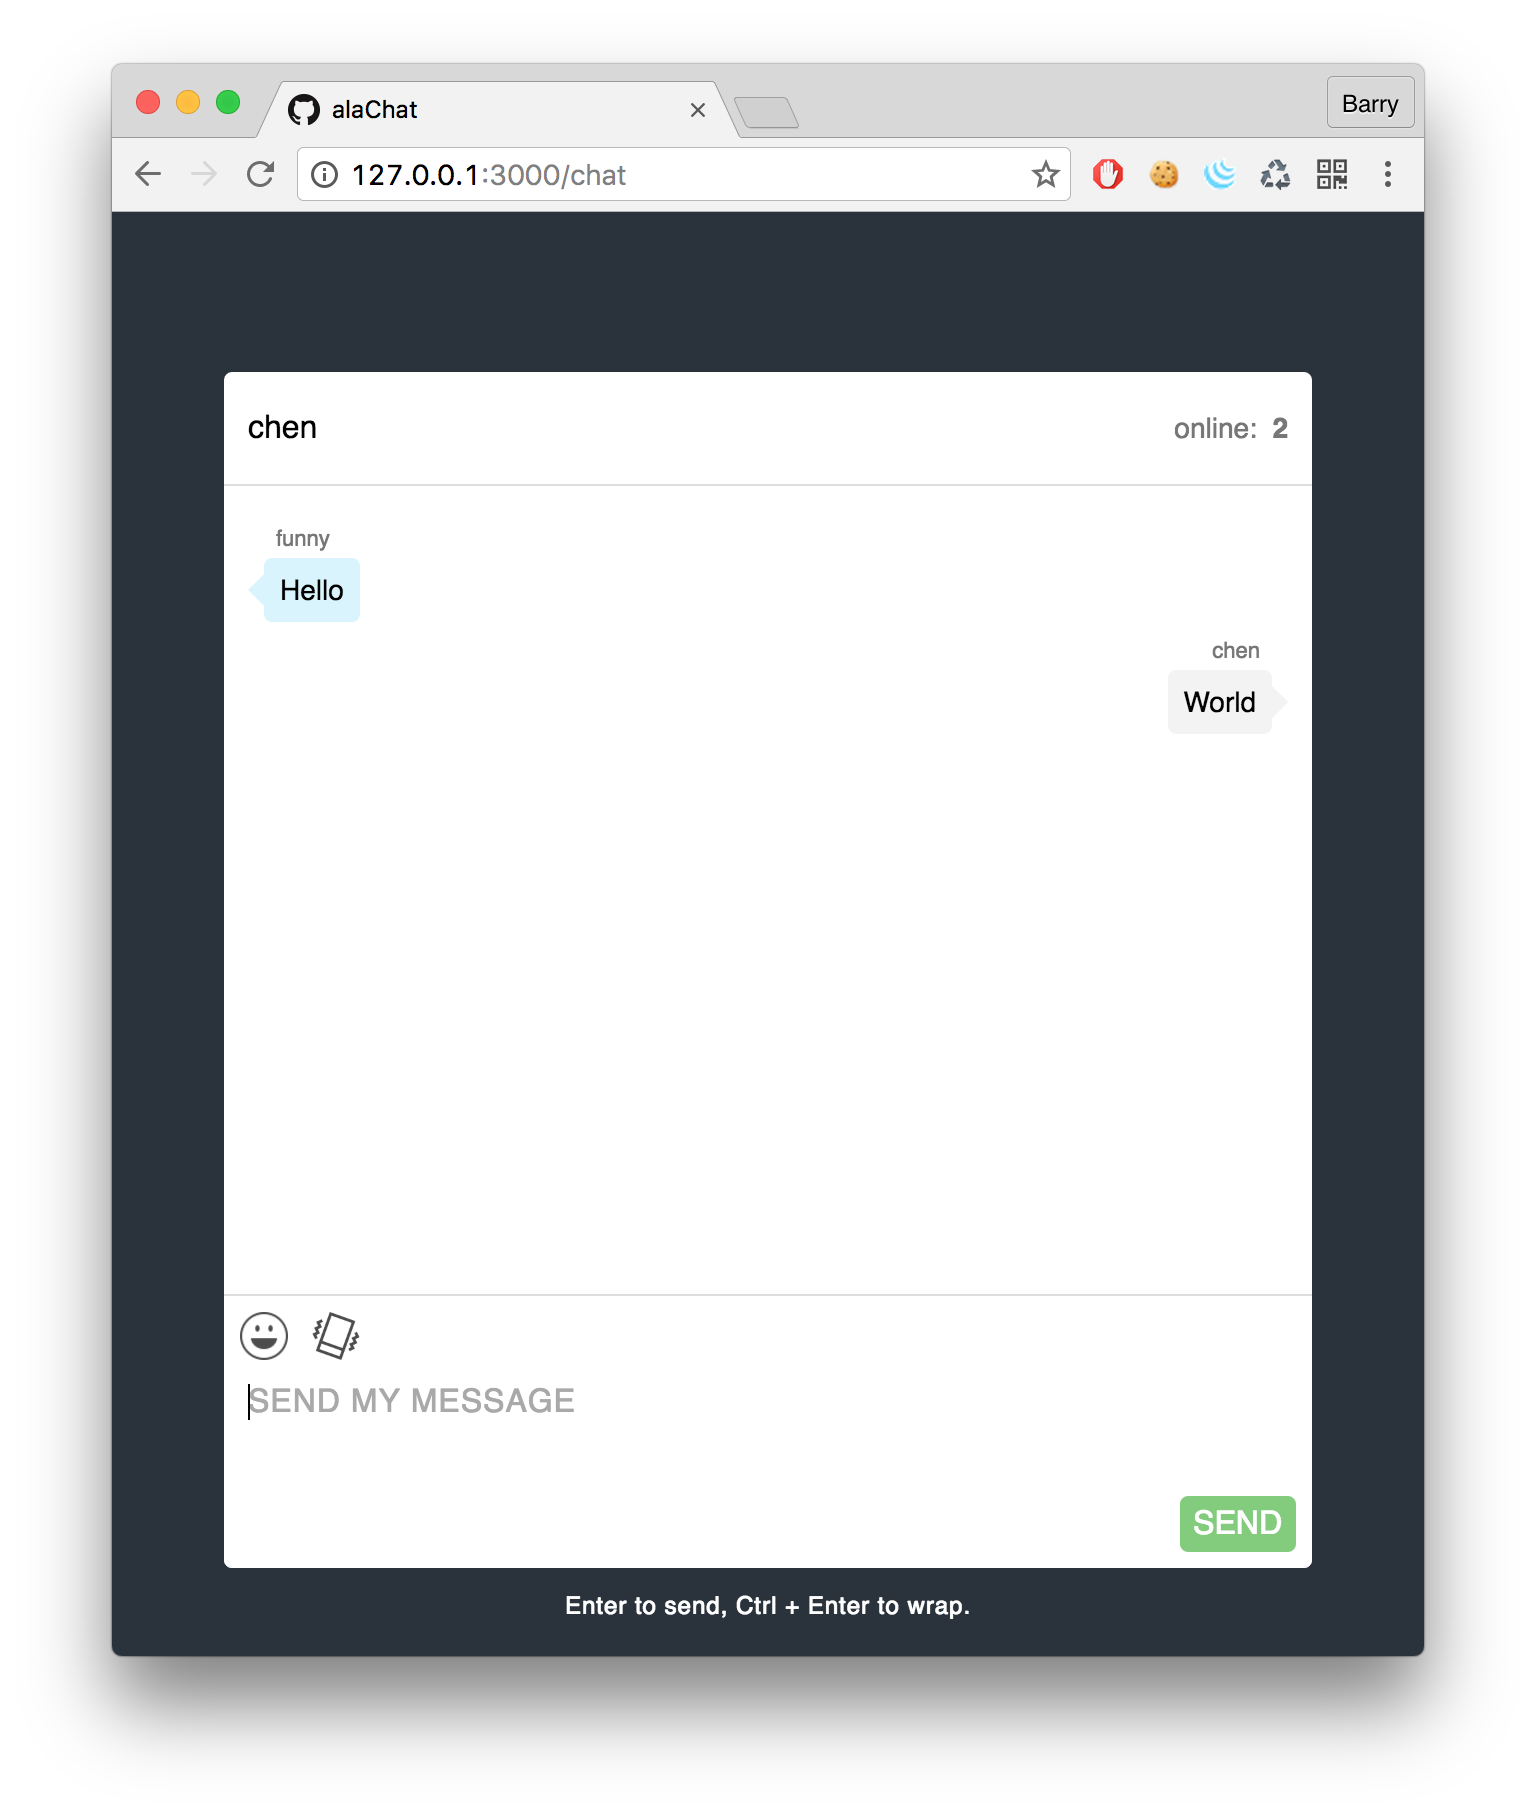
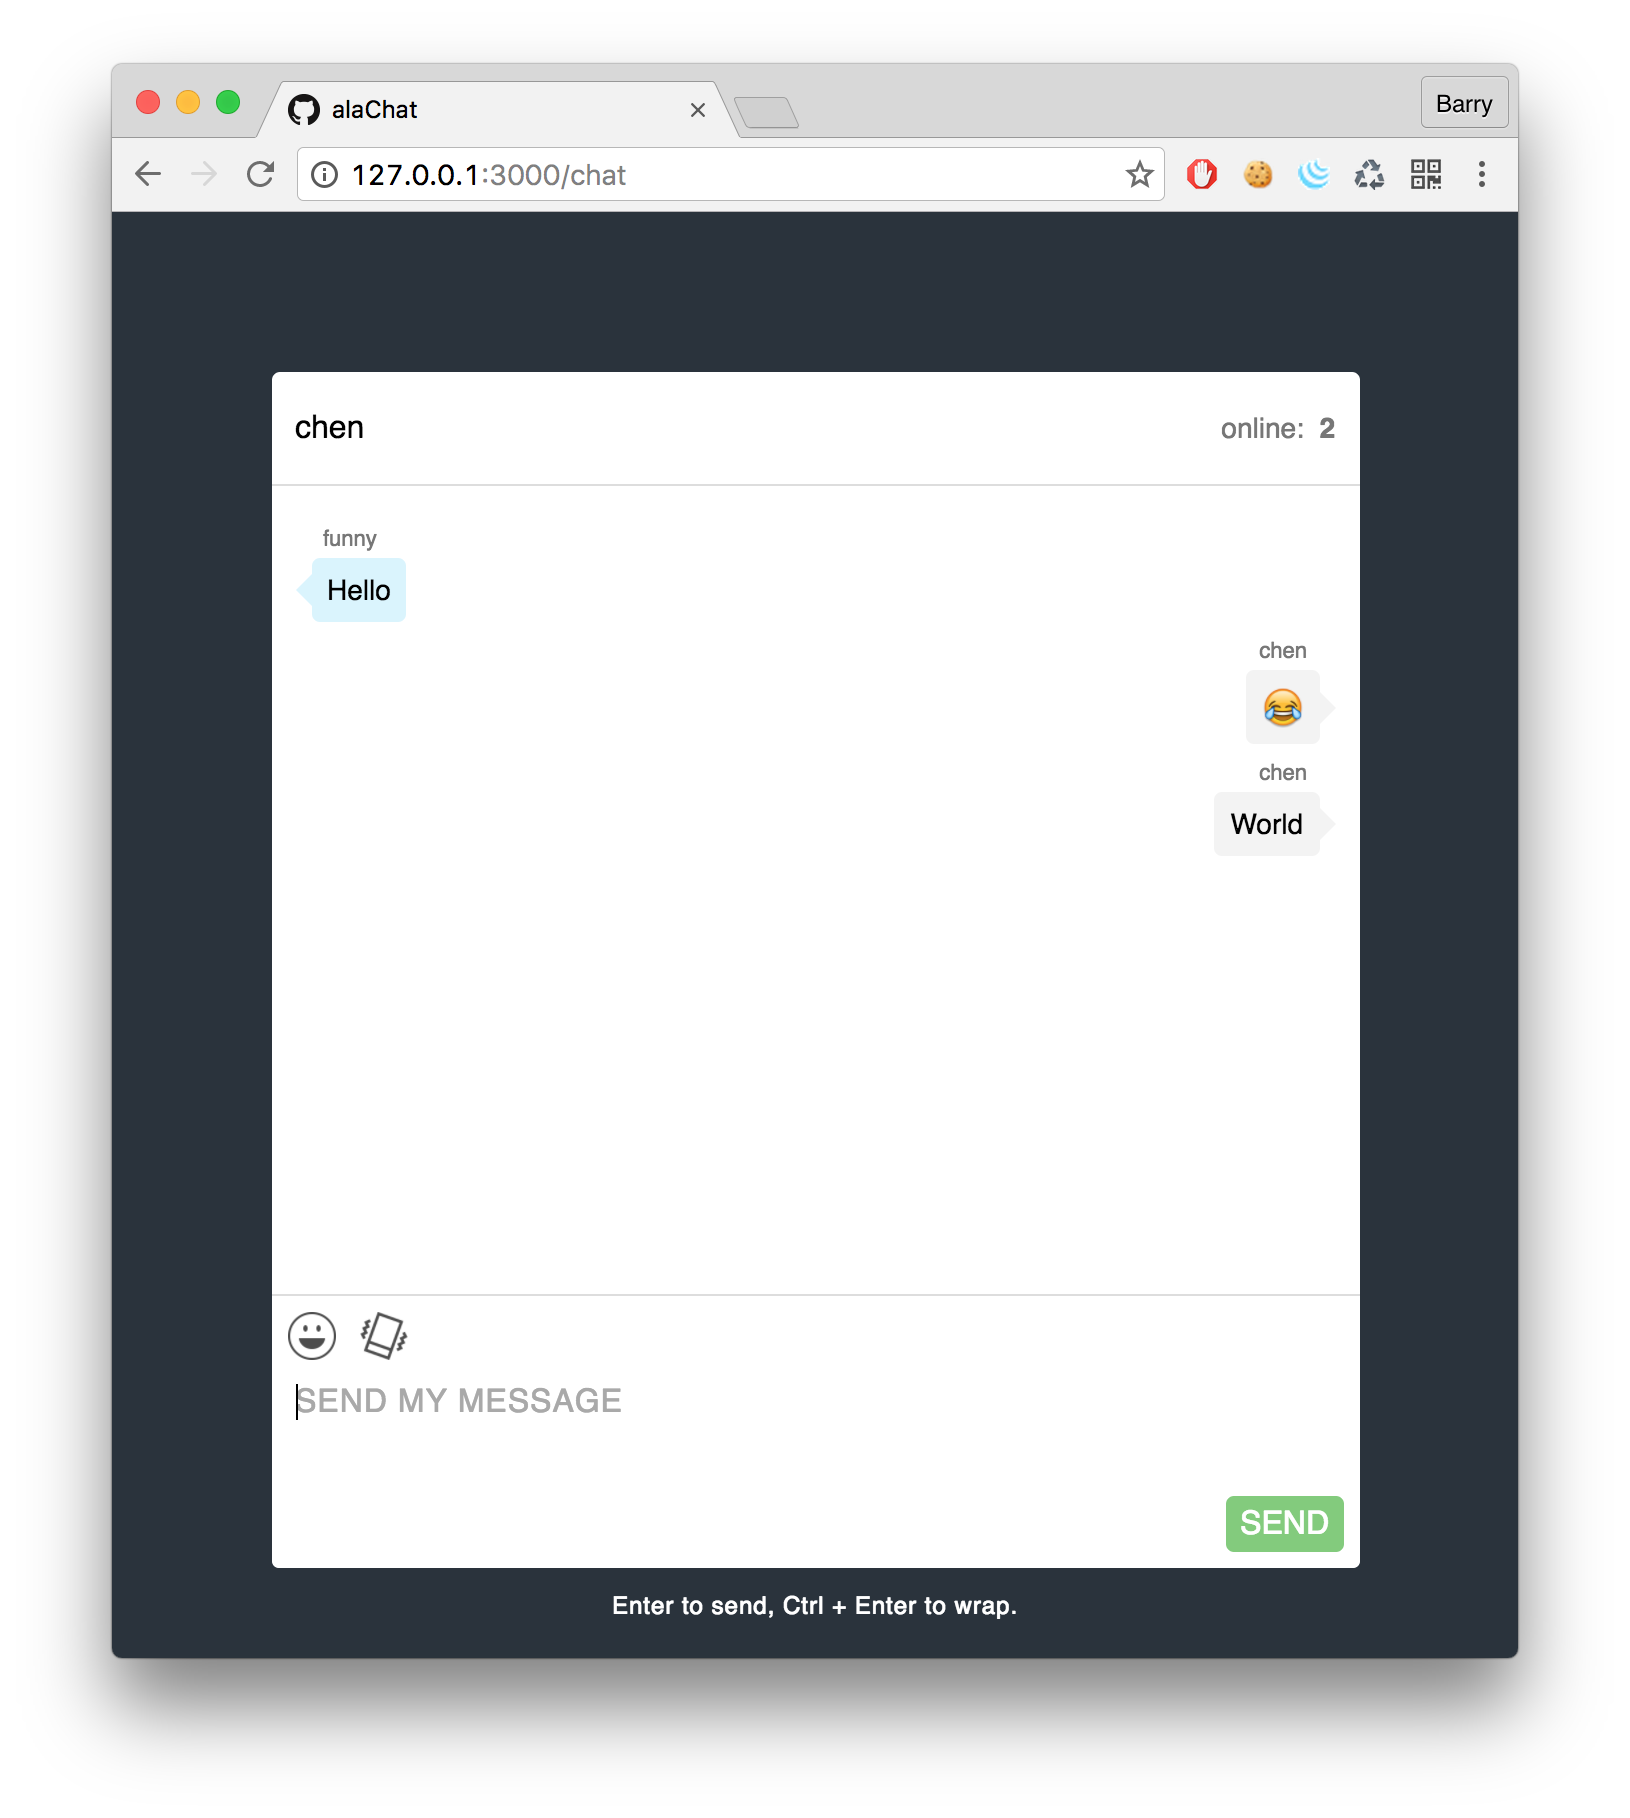
emoji function is OK but not perfect

diff --git a/public/scripts/chat.js b/public/scripts/chat.js
@@ -1,7 +1,7 @@
 $(function() {
 	
 	window.onbeforeunload = function() {
-		return confirm();
+		return 1;
 	}
 	
 	// notification
@@ -29,26 +29,25 @@ $(function() {
 	
 	var socket = io();
 	
-	var u_time;
+	var u_time,
+		record_input_emoji_info = 'blank';
 	
 	var emoji_name = ['em em-angry', 'em em-anguished', 'em em-astonished', 'em em-blush', 'em em-cold_sweat', 'em em-confounded', 'em em-confused', 'em em-cry', 'em em-disappointed', 'em em-disappointed_relieved', 'em em-dizzy_face', 'em em-expressionless', 'em em-fearful', 'em em-flushed', 'em em-frowning', 'em em-grimacing', 'em em-grin', 'em em-grinning', 'em em-heart_eyes', 'em em-hushed', 'em em-innocent', 'em em-joy', 'em em-kissing_heart', 'em em-laughing', 'em em-neutral_face', 'em em-no_mouth', 'em em-open_mouth', 'em em-pensive', 'em em-persevere', 'em em-relaxed', 'em em-satisfied', 'em em-smile', 'em em-sleepy', 'em em-smirk', 'em em-sob', 'em em-stuck_out_tongue_closed_eyes', 'em em-sunglasses', 'em em-sweat_smile', 'em em-tired_face', 'em em-yum'],
+		emoji_input_name = ['angry', 'anguished', 'astonished', 'blush', 'cold_sweat', 'confounded', 'confused', 'cry', 'disappointed', 'disappointed_relieved', 'dizzy_face', 'expressionless', 'fearful', 'flushed', 'frowning', 'grimacing', 'grin', 'grinning', 'heart_eyes', 'hushed', 'innocent', 'joy', 'kissing_heart', 'laughing', 'neutral_face', 'no_mouth', 'open_mouth', 'pensive', 'persevere', 'relaxed', 'satisfied', 'smile', 'sleepy', 'smirk', 'sob', 'stuck_out_tongue_closed_eyes', 'sunglasses', 'sweat_smile', 'tired_face', 'yum'],
 		emoji_len = emoji_name.length;
 	
 	for (var i = 0; i < emoji_len; i++) {
 		var i_tag = $('<i></i>');
 		i_tag.addClass(emoji_name[i]);
+		i_tag.attr('title', emoji_input_name[i]);
 		$emoji_table.append(i_tag);
 	}
 	
-	var emoji_choose = $emoji_table.children('i');
+	var $emoji_choose = $emoji_table.children('i');
 	
-	emoji_choose.on('click', function() {
-		// $input.val($input.val() + '<i class="' + emoji_name[$(this).index()] + '"></i> ');
-		// $r_message.append('<li><i class="' + emoji_name[$(this).index()] + '"></i><dt>' + your_nickname + '</dt></li><br>');
-		socket.emit('chat', {
-			msg: '<li><i class="' + emoji_name[$(this).index()] + '"></i><dt>' + your_nickname + '</dt></li><br>',
-			people: $('.nickname').val() + '_' + u_time
-		});
+	$emoji_choose.on('click', function() {
+		$input.val($input.val() + '[' + emoji_input_name[$(this).index()] + ']');
+		record_input_emoji_info = $input.val();
 		$input.focus();
 	});
 	
@@ -123,7 +122,7 @@ $(function() {
 	socket.on('chat', function(data) {
 		var people = data.people.split('_');
 		if ($('.nickname').val() === people[0] && u_time === +people[1]) { // is you
-			your_message = checkMesage(data.msg, your_nickname);
+			your_message = checkMesage(data.msg, data.riei, your_nickname);
 			var right_height = $r_message.height();
 			$r_message.append(your_message);
 			var right_len = $r_message.children('li').length;
@@ -140,7 +139,7 @@ $(function() {
 					icon: '/img/notify.png'
 				});
 			}
-			other_message = checkMesage(data.msg, people[0]);
+			other_message = checkMesage(data.msg, data.riei, people[0]);
 			var left_height = $l_message.height();
 			$l_message.append(other_message);
 			var left_len = $l_message.children('li').length;
@@ -177,6 +176,7 @@ $(function() {
 		} else {
 			socket.emit('chat', {
 				msg: $input.val(),
+				riei: record_input_emoji_info,
 				people: $('.nickname').val() + '_' + u_time
 			});
 			$input.val('');
@@ -184,18 +184,25 @@ $(function() {
 		}
 	}
 	
-	function checkMesage(msg, nn) {
-		var li = $('<li></li><br>');
-		li.eq(0).text(msg);
+	function checkMesage(msg, riei, nn) {
+		record_input_emoji_info = riei;
+		console.info('record_input_emoji_info: ' + record_input_emoji_info);
+		var li = $('<li></li><br>'),
+			emojis = record_input_emoji_info.match(/\[[a-z|_]+\]/g),
+			len = 0;
+		if (emojis !== null) { // have emoji(s)
+			len = emojis.length;
+			for (var i = 0; i < len; i++) { // record emoji(s)
+				if (msg.indexOf(emojis[i]) !== -1) {
+					msg = msg.replace(emojis[i], '<i class="em em-' + emojis[i].match(/[a-z|_]+/g)[0] + '"></i>');
+				}
+			}
+			li.eq(0).append(msg);
+		} else { // no emoji(s)
+			li.eq(0).text(msg);
+		}
 		li.eq(0).append('<dt>' + nn + '</dt>');
 		return li;
 	}
-	
-	// function emCheck(msg, name) {
-	// 	var emReg = new RegExp('(^|(<i class="em em-))' + '*' + '("></i>)$', 'g'),
-	// 		r = msg.match(emReg);
-	// 	if (r !== null) return r;
-	// 	return null;
-	// }
 	
 });

diff --git a/views/chat.html b/views/chat.html
@@ -10,7 +10,6 @@
 	<link rel="stylesheet" type="text/css" href="/css/common.css">
 </head>
 <body>
-	
 	<div class="enter_nickname">
 		<form>
 			<p>PLEASE ENTER YOUR NICKNAME</p>
@@ -43,7 +42,6 @@
 		</div>
 		<p class="tip">Enter to send, Ctrl + Enter to wrap.</p>
 	</div>
-	
 	<script type="text/javascript" src="/scripts/lib/jquery.min.js"></script>
 	<script type="text/javascript" src="/scripts/lib/socket.io.js"></script>
 	<script type="text/javascript" src="/scripts/chat.js"></script>

diff --git a/README.md b/README.md
@@ -1,6 +1,8 @@
-### nodejs_gather
+## nodejs_gather
 
-主要是一个聊天的小玩意儿，照着 `socket.io` 官方文档一步步写下来，花了点时间去理解。
+主要还是一个聊天的小玩意儿，照着 `socket.io` 官方文档一步步写下来，花了点时间去理解。
+
+主要是事件的触发和数据的传递，当然还有很多其他功能等着去发现。
 
 可以克隆下整个目录，之后进入下好的目录运行：`npm install`，安装运行依赖的模块。
 
@@ -10,18 +12,18 @@
 
 多人聊天需要把 `127.0.0.1` 改成本机 `ip`，实现局域网内的通信。
 
-这是现在的基本样子，仿照的是 `Mac QQ` 界面：
+这是现在的基本样子，仿的 `Mac QQ` 界面：
 
 ![chat](assets/chat.png)
 
-主要功能有：
+**主要功能：**
 
-* 显示在线人数
+* 显示在线人数功能
 
 * 抖一抖功能，并显示谁抖的
 
 * 浏览器的通知功能
 
-* 发送 `emoji` 功能正在开发中...
+* 发送 `emoji` 功能（暂时还不完善）
 
-现在使用的渲染模版是 `html`，还是因为比较顺手，之后可能会修改成 `jade` 的版本，前端也会使用 `MVC` 的框架来搭建，加油努力～
+> 现在使用的渲染模版是 `html`，还是因为比较顺手，之后可能会修改成 `jade` 的版本，前端也会使用 `MVC` 的框架来搭建，加油努力～
